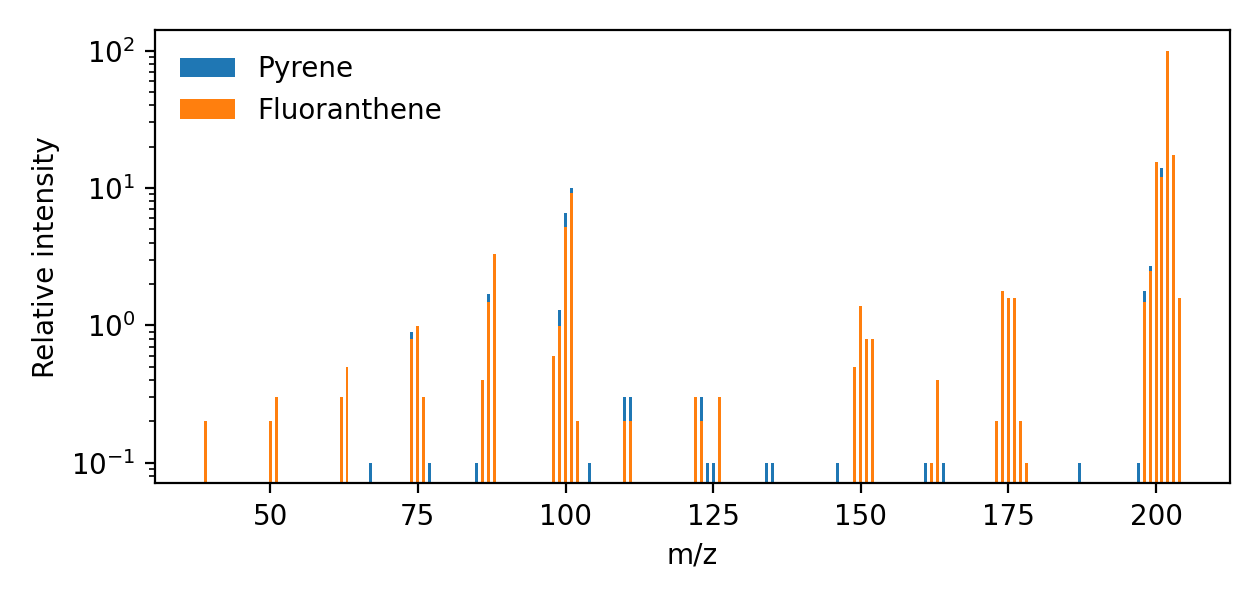
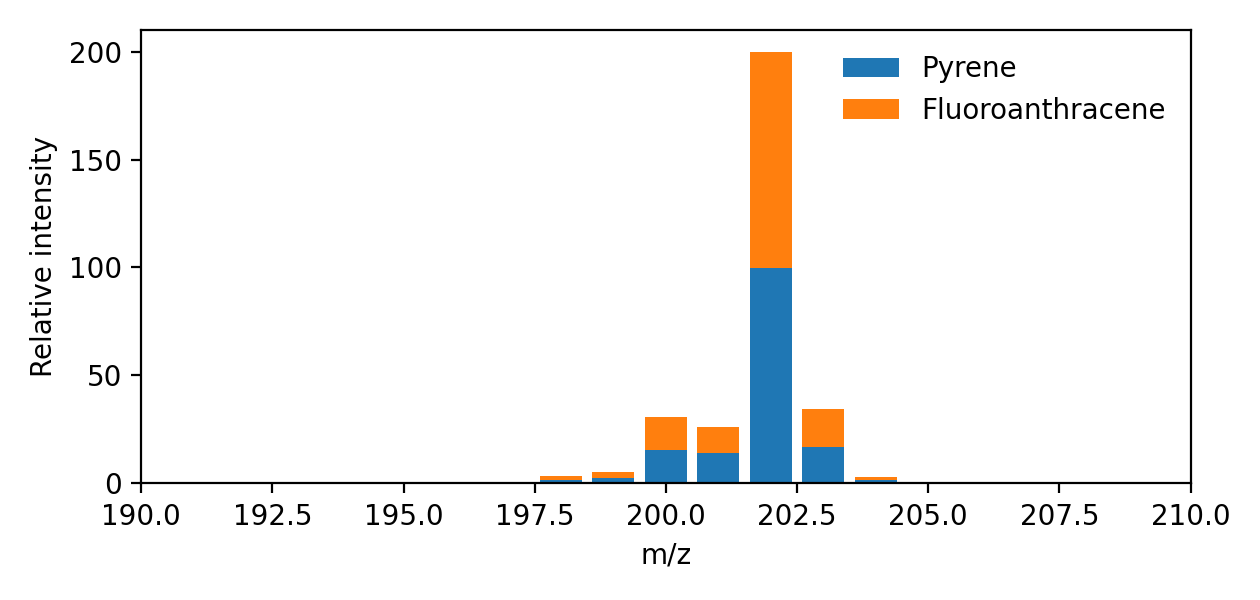
edit

diff --git a/NIST.py b/NIST.py
@@ -15,16 +15,24 @@ for file in files:
     with open(os.path.join(path, file))as f:
         df = pd.read_table(f, sep = '\s+', skiprows=25, header=None)[:-1]
         df2 = pd.DataFrame(df.stack())
-        df3 = df2[0].str.split(',', expand = True).sort_values(0)
+        df3 = pd.DataFrame(df2[0].str.split(',', expand = True).reset_index(drop=True)) #.sort_values(0)
         df3.columns = ['mass', 'intensity']
         data_dict[file] = df3
 
 print(data_dict)
+# print(data_dict['Fluoranthene.jdx'])
 #%%
 print(len(data_dict['Pyrene.jdx']['mass']))
 print(len(data_dict['Pyrene.jdx']['intensity']))
 print(len(pd.to_numeric(data_dict['Pyrene.jdx']['intensity']) / 10))
 #%%
+
+bob = pd.merge(data_dict['Pyrene.jdx'], data_dict['Fluoranthene.jdx'], on='mass')
+bob['intensity_x'] = pd.to_numeric(bob['intensity_x'])
+bob['intensity_y'] = pd.to_numeric(bob['intensity_y'])
+bob['pyrene+fluoranthracene'] = bob['intensity_x'] + bob['intensity_y']
+bob['mass'] = pd.to_numeric(bob['mass'])
+print(bob.head())
 fig, ax = plt.subplots(figsize = (6.3, 3))
 
 df = pd.DataFrame()
@@ -32,16 +40,18 @@ species = ['Pyrene', 'Fluoranthene']
 width = 0.5
 bottom = np.zeros(100)
 
-for specie in species:
-    data = data_dict[''.join([specie, '.jdx'])]
-    y = pd.to_numeric(data['intensity']) / 100
-    x = pd.to_numeric(data['mass'])
-    
-    ax.bar(x, y, width, label = specie) #, bottom = bottom)
+#for specie in species:
+#    data = data_dict[''.join([specie, '.jdx'])]
+#    y = pd.to_numeric(data['intensity']) / 100
+#    x = pd.to_numeric(data['mass'])
+#    
+#    ax.bar(x, y, width, label = specie) #, bottom = bottom)
     # bottom += y
+ax.bar(bob['mass'], bob['intensity_x'] / 100, label='Pyrene')
+ax.bar(bob['mass'], bob['intensity_y'] / 100, bottom=bob['intensity_x'] / 100, label='Fluoroanthracene')
 
 ax.legend(frameon = False)
-ax.set(xlabel = 'm/z', ylabel = 'Relative intensity', yscale = 'log') #, xlim = (190, 210))
+ax.set(xlabel = 'm/z', ylabel = 'Relative intensity', xlim = (190, 210)) #, yscale = 'log') #
 
 fig.tight_layout()
 fig.savefig('MW202.png', dpi = 200)
